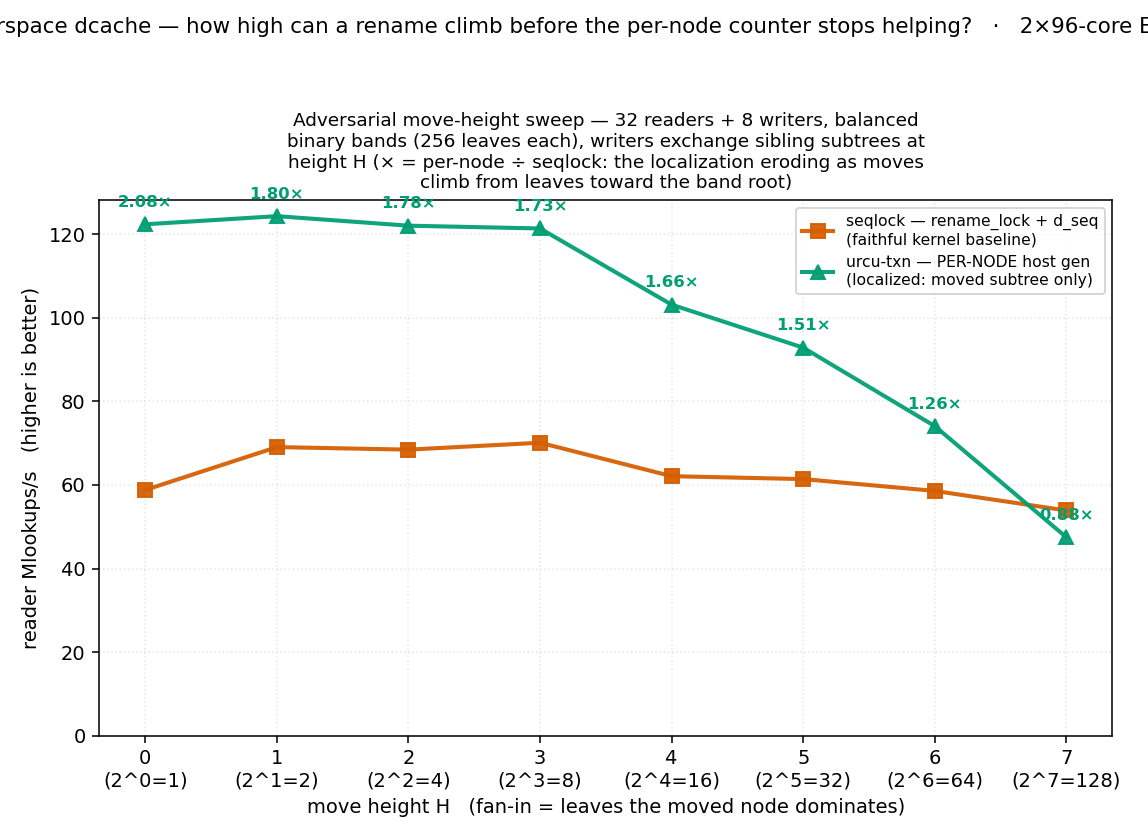
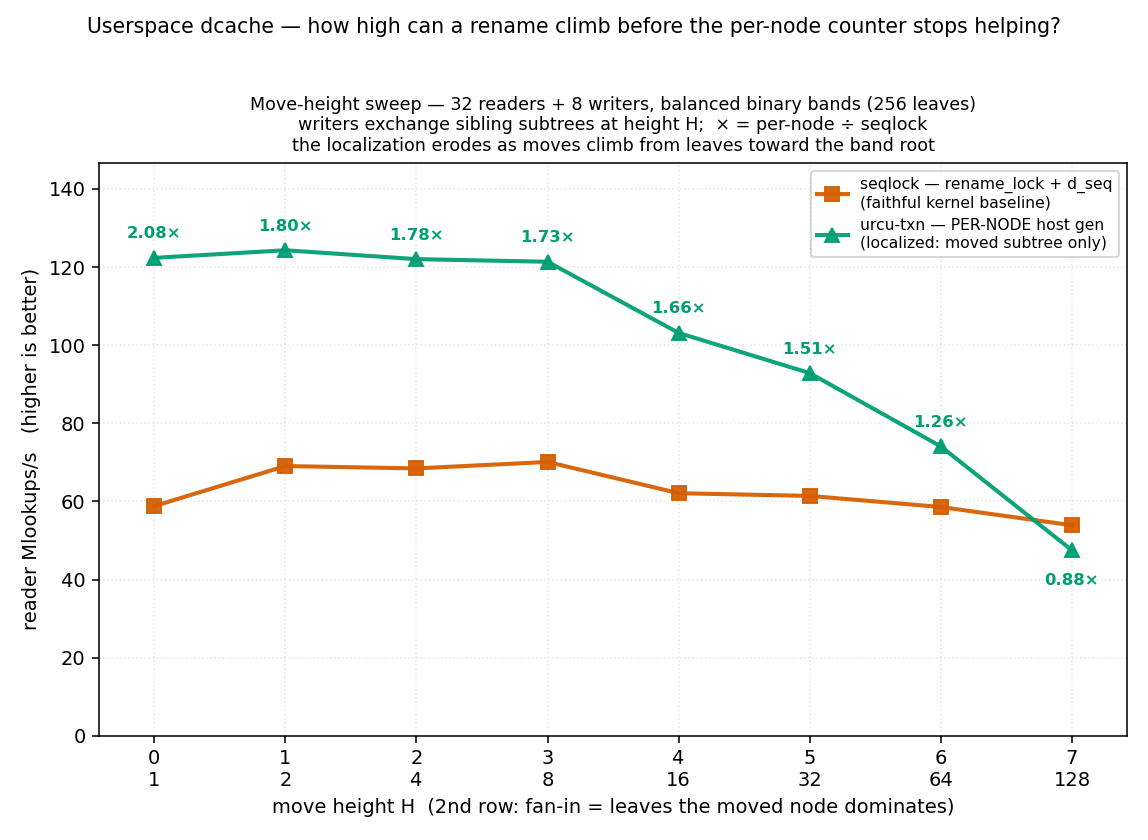
experiments/dcache: fix dcache_height figure legibility
- title: one-line suptitle (was overflowing both edges), tighter 3-line
  subtitle
- x-axis: height H on top with the fan-in (2^H) as a bare 2nd row, not the
  cluttered "(2^h=N)" per tick
- ratio labels: add top headroom + x-margin so they clear the spines, and
  place the label below the per-node point where it dips under seqlock
  (the H=7 crossover) so 0.88x no longer lands on the other curve

diff --git a/scripts/plot_dcache_height.py b/scripts/plot_dcache_height.py
@@ -52,32 +52,39 @@ for e in ENGINES:
     if xs:
         ax.plot(xs, ys, color=COLOR[e], marker=MARKER[e], lw=2.1, ms=7,
                 label=LABEL[e], alpha=0.94)
-# per-node lead over the seqlock baseline at each height -- the erosion
+# per-node lead over the seqlock baseline at each height -- the erosion.
+# Label above the per-node point where it leads, below where it dips under
+# seqlock (so the text never lands on the other curve at the crossover).
 for h in sorted(base["txn-pernode"]):
     if h in base["seqlock"] and base["seqlock"][h] > 0:
-        r = base["txn-pernode"][h] / base["seqlock"][h]
-        ax.annotate(f"{r:.2f}×", (h, base["txn-pernode"][h]),
-                    textcoords="offset points", xytext=(0, 9),
+        pn, sq = base["txn-pernode"][h], base["seqlock"][h]
+        dy = 10 if pn >= sq else -18
+        ax.annotate(f"{pn / sq:.2f}×", (h, pn),
+                    textcoords="offset points", xytext=(0, dy),
                     ha="center", fontsize=8.5, color=COLOR["txn-pernode"],
                     fontweight="bold")
 
 heights = sorted({int(r["move_height"]) for r in rows})
 ax.set_xticks(heights)
-# label each height with its fan-in (2^H leaves the moved node dominates)
+# height H on top, the fan-in it dominates (2^H leaves) as a compact 2nd line
 ax.xaxis.set_major_formatter(FixedFormatter(
-    [f"{h}\n(2^{h}={2**h})" for h in heights]))
-ax.set_ylim(bottom=0)
+    [f"{h}\n{2**h}" for h in heights]))
+# headroom above the tallest curve so the ratio labels (offset upward) clear the
+# top spine; x-margin so the H=0 / H=D-1 labels do not clip the side spines.
+ymax = max((float(r["mlookups_s"]) for r in rows), default=1.0)
+ax.set_ylim(bottom=0, top=ymax * 1.18)
+ax.margins(x=0.06)
 ax.yaxis.set_major_formatter(FuncFormatter(lambda v, p: f"{v:g}"))
-ax.set_xlabel("move height H   (fan-in = leaves the moved node dominates)")
+ax.set_xlabel("move height H  (2nd row: fan-in = leaves the moved node dominates)")
 ax.set_ylabel("reader Mlookups/s   (higher is better)")
-ax.set_title("Adversarial move-height sweep — 32 readers + 8 writers, balanced\n"
-             "binary bands (256 leaves each), writers exchange sibling subtrees at\n"
-             "height H (× = per-node ÷ seqlock: the localization eroding as moves\n"
-             "climb from leaves toward the band root)", fontsize=9.5)
+ax.set_title("Move-height sweep — 32 readers + 8 writers, balanced binary bands "
+             "(256 leaves)\nwriters exchange sibling subtrees at height H;  "
+             "× = per-node ÷ seqlock\nthe localization erodes as moves climb from "
+             "leaves toward the band root", fontsize=9)
 ax.grid(alpha=0.3, ls=":")
 ax.legend(fontsize=8, loc="best")
 fig.suptitle("Userspace dcache — how high can a rename climb before the per-node "
-             "counter stops helping?   ·   2×96-core EPYC", fontsize=11)
-fig.tight_layout(rect=[0, 0, 1, 0.95])
+             "counter stops helping?", fontsize=10.5)
+fig.tight_layout(rect=[0, 0, 1, 0.96])
 fig.savefig(OUT, dpi=140)
 print("wrote", os.path.abspath(OUT))
